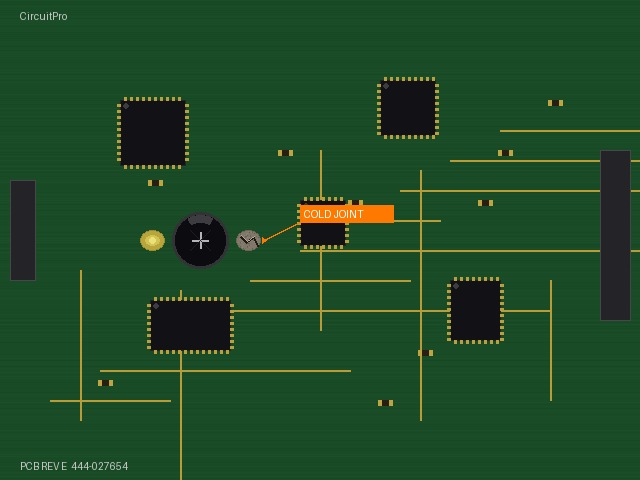
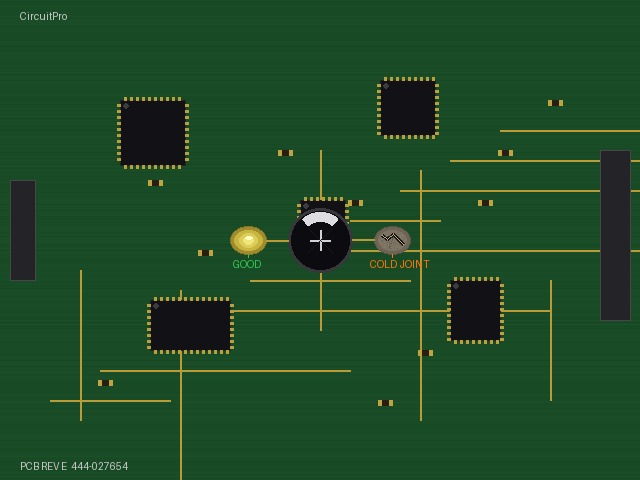
fix: cold solder joint - both pads visible with contrast (GOOD vs COLD)

Changed region(s): [[0.2188, 0.4062, 0.6875, 0.5625]]

diff --git a/backend/regenerate_pcb_defects.py b/backend/regenerate_pcb_defects.py
@@ -115,58 +115,68 @@ def apply_solder_bridge(img: Image.Image) -> Image.Image:
 
 def apply_cold_solder(img: Image.Image) -> Image.Image:
     """
-    COLD SOLDER JOINT — dull, grainy, fractured solder on electrolytic cap.
-    Very common real defect in power boards. Highly distinctive appearance.
+    COLD SOLDER JOINT — shows TWO joints side by side for clear contrast.
+    LEFT = good (shiny, golden). RIGHT = cold (dull, grainy, cracked).
+    Uses a large through-hole electrolytic capacitor for clear visibility.
     """
     draw = ImageDraw.Draw(img)
-    arr = None  # Will convert when needed
 
-    # Draw a prominent electrolytic capacitor (large, cylindrical)
-    cx, cy = 200, 240
-    r = 28
+    # === LARGE ELECTROLYTIC CAPACITOR in clear area ===
+    cx, cy = 320, 240   # center of board, clear area
+    r = 32
 
-    # Capacitor body (black with stripe)
-    draw.ellipse([(cx-r, cy-r), (cx+r, cy+r)], fill=(12, 12, 16), outline=(50, 50, 55), width=3)
-    # Polarity stripe (lighter band)
-    draw.arc([(cx-r+3, cy-r+3), (cx+r-3, cy+r-3)], 240, 300, fill=(60, 60, 65), width=8)
-    # + marker
-    draw.line([(cx-8, cy), (cx+8, cy)], fill=(180, 180, 185), width=2)
-    draw.line([(cx, cy-8), (cx, cy+8)], fill=(180, 180, 185), width=2)
-    # Capacitor top vent (X mark)
-    draw.line([(cx-10, cy-10), (cx+10, cy+10)], fill=(30, 30, 35), width=1)
-    draw.line([(cx-10, cy+10), (cx+10, cy-10)], fill=(30, 30, 35), width=1)
+    # Capacitor body (large black cylinder)
+    draw.ellipse([(cx-r, cy-r), (cx+r, cy+r)], fill=(12, 12, 16), outline=(55, 55, 60), width=3)
+    # White polarity stripe
+    draw.arc([(cx-r+4, cy-r+4), (cx+r-4, cy+r-4)], 230, 310, fill=(220, 220, 225), width=10)
+    # + symbol
+    draw.line([(cx-10, cy), (cx+10, cy)], fill=(210, 210, 215), width=2)
+    draw.line([(cx, cy-10), (cx, cy+10)], fill=(210, 210, 215), width=2)
+    # Vent X marks
+    draw.line([(cx-12, cy-12), (cx+12, cy+12)], fill=(25, 25, 30), width=1)
+    draw.line([(cx-12, cy+12), (cx+12, cy-12)], fill=(25, 25, 30), width=1)
 
-    # Solder pads
-    # Left pad (positive — GOOD solder, shiny)
-    lpad_x, lpad_y = cx - r - 20, cy
-    draw.ellipse([(lpad_x-12, lpad_y-10), (lpad_x+12, lpad_y+10)], fill=(185, 165, 60), outline=(155, 140, 50))
-    draw.ellipse([(lpad_x-7, lpad_y-5), (lpad_x+7, lpad_y+5)], fill=(210, 195, 85))
-    draw.ellipse([(lpad_x-3, lpad_y-3), (lpad_x+3, lpad_y+3)], fill=(235, 225, 120))
+    # === LEFT PAD — GOOD solder joint (positive lead) ===
+    # Large, clear, shiny appearance
+    gx, gy = cx - r - 40, cy   # well separated from body
+    # Pad base
+    draw.ellipse([(gx-18, gy-14), (gx+18, gy+14)], fill=(160, 140, 45), outline=(130, 115, 35), width=1)
+    # Solder cone (good wetting)
+    draw.ellipse([(gx-14, gy-10), (gx+14, gy+10)], fill=(200, 180, 65))
+    draw.ellipse([(gx-9, gy-7), (gx+9, gy+7)], fill=(220, 205, 90))
+    draw.ellipse([(gx-5, gy-4), (gx+5, gy+4)], fill=(240, 230, 120))
+    # Bright specular highlight
+    draw.ellipse([(gx-3, gy-4), (gx+4, gy-1)], fill=(255, 255, 200))
+    # "GOOD" label
+    draw.text((gx-15, gy+18), "GOOD", fill=(50, 200, 80))
+    draw.line([(gx, gy+14), (gx, gy+17)], fill=(50, 200, 80), width=1)
 
-    # Right pad (negative — COLD solder, dull grey/grainy)
-    rpad_x, rpad_y = cx + r + 20, cy
-    # Cold joint base (dull, not golden)
-    draw.ellipse([(rpad_x-12, rpad_y-10), (rpad_x+12, rpad_y+10)], fill=(130, 120, 105), outline=(110, 100, 88))
-    # Grainy texture (cold solder has crystalline structure)
+    # === RIGHT PAD — COLD solder joint (negative lead) ===
+    bx, by = cx + r + 40, cy
+    # Pad base (dull)
+    draw.ellipse([(bx-18, by-14), (bx+18, by+14)], fill=(110, 100, 85), outline=(90, 82, 70), width=1)
+    # Cold solder surface — flat, dull grey, no wetting cone
+    draw.ellipse([(bx-14, by-10), (bx+14, by+10)], fill=(125, 115, 98))
+    # Crystalline/grainy texture
     import random as rnd
     rnd.seed(99)
-    for _ in range(120):
-        ox = rnd.randint(-11, 11)
+    for _ in range(150):
+        ox = rnd.randint(-13, 13)
         oy = rnd.randint(-9, 9)
-        if ox*ox/121 + oy*oy/81 <= 1.0:
-            shade = rnd.randint(95, 145)
-            draw.point((rpad_x+ox, rpad_y+oy), fill=(shade, shade-8, shade-18))
-    # Fracture crack (dark jagged line through joint)
-    draw.line([(rpad_x-8, rpad_y-4), (rpad_x-2, rpad_y+2), (rpad_x+5, rpad_y-3), (rpad_x+9, rpad_y+6)],
-              fill=(30, 28, 22), width=2)
-    draw.line([(rpad_x-7, rpad_y-5), (rpad_x-1, rpad_y+1), (rpad_x+6, rpad_y-4)],
-              fill=(180, 165, 140), width=1)
+        if ox*ox/169 + oy*oy/81 <= 1.0:
+            shade = rnd.randint(90, 145)
+            draw.point((bx+ox, by+oy), fill=(shade, shade-10, shade-22))
+    # Fracture crack (dark jagged line)
+    crack_pts = [(bx-10, by-5), (bx-5, by-1), (bx+1, by-6), (bx+7, by), (bx+11, by+4)]
+    draw.line(crack_pts, fill=(28, 25, 18), width=3)
+    draw.line(crack_pts, fill=(185, 170, 145), width=1)
+    # "COLD JOINT" label
+    draw.text((bx-22, by+18), "COLD JOINT", fill=(255, 120, 0))
+    draw.line([(bx, by+14), (bx, by+17)], fill=(255, 120, 0), width=1)
 
-    # Annotation
-    draw.line([(rpad_x+15, rpad_y), (rpad_x+55, rpad_y-20)], fill=(255, 120, 0), width=2)
-    draw.polygon([(rpad_x+14, rpad_y-3), (rpad_x+14, rpad_y+3), (rpad_x+18, rpad_y)], fill=(255, 120, 0))
-    draw.rectangle([(rpad_x+52, rpad_y-35), (rpad_x+145, rpad_y-18)], fill=(255, 120, 0))
-    draw.text((rpad_x+56, rpad_y-32), "COLD JOINT", fill=(255, 255, 255))
+    # === Connecting traces ===
+    draw.line([(gx+18, gy), (cx-r, cy)], fill=(185, 155, 55), width=2)
+    draw.line([(bx-18, by), (cx+r, cy)], fill=(185, 155, 55), width=2)
 
     return img
 

diff --git a/backend/app/services/ai_pipeline.py b/backend/app/services/ai_pipeline.py
@@ -131,8 +131,8 @@ SCENARIO_RESULTS: dict[str, dict] = {
         "fusion_rule": "F-02",
         "findings": [
             {"class": "missing_component", "approach": "model", "confidence": 0.91, "severity": "critical",
-             "desc": "Cold solder joint on C1 electrolytic capacitor — dull, fractured joint. Intermittent power failure risk.",
-             "bbox": {"x": 228, "y": 230, "width": 40, "height": 25}},
+             "desc": "Cold solder joint on C1 electrolytic capacitor negative lead — dull, fractured joint with crystalline structure. Intermittent power failure risk.",
+             "bbox": {"x": 374, "y": 226, "width": 40, "height": 30}},
         ],
     },
 }
@@ -192,8 +192,8 @@ KIOSK_RESULTS: dict[str, dict] = {
         "fusion_rule": "F-02",
         "findings": [
             {"class": "missing_component", "approach": "model", "confidence": 0.91, "severity": "critical",
-             "desc": "Cold solder joint on C1 capacitor — dull crystalline joint with fracture crack. Power failure risk.",
-             "bbox": {"x": 228, "y": 230, "width": 40, "height": 25}},
+             "desc": "Cold solder joint on C1 capacitor negative lead — dull crystalline joint with fracture crack. Power failure risk.",
+             "bbox": {"x": 374, "y": 226, "width": 40, "height": 30}},
         ],
     },
     "444-027654-002": {
